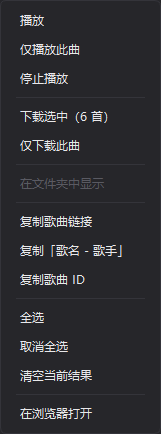
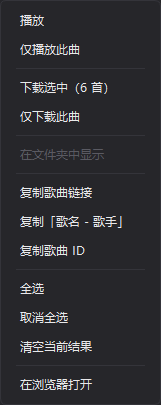
停止播放改为播放条按钮，移除两处右键菜单项
- 播放条新增实心方块停止按钮，未播放时置灰
- 结果表与标题栏右键菜单移除「停止播放」：右键某一首时容易被理解成停这一首
- 新增 stop.svg，方块占满 viewBox，避免渲染成 16px 时偏小
- 启动时按当前音源渲染一次，修掉客户端视图仍显示音质列的问题
- 版本 1.2.1

Changed region(s): [[0.1242, 0.0296, 0.7764, 0.8889], [0.1242, 0.9185, 0.5901, 0.9778]]

diff --git a/gui/player.py b/gui/player.py
@@ -392,7 +392,11 @@ class TopBar(QWidget):
         self.btn_play.setFocusPolicy(Qt.NoFocus)
         self.btn_play.clicked.connect(self.play_pause.emit)
         self.btn_next = self._icon_button("skip-forward", "下一首", self.next.emit, 22)
-        for w in (self.btn_prev, self.btn_play, self.btn_next):
+        # 停止单独给个按钮：以前只在右键菜单里，右键某一首看到「停止播放」
+        # 很容易被理解成停这一首
+        self.btn_stop = self._icon_button("stop", "停止播放", self.stop_requested.emit, 22)
+        self.btn_stop.setEnabled(False)
+        for w in (self.btn_prev, self.btn_play, self.btn_next, self.btn_stop):
             row.addWidget(w)
 
         row.addSpacing(6)
@@ -495,6 +499,7 @@ class TopBar(QWidget):
     def set_state(self, state: str) -> None:
         self._state = state
         self._sync_play_icon()
+        self.btn_stop.setEnabled(state != STOPPED)
         self.text.set_scrolling_allowed(state == PLAYING)
 
     def set_position(self, pos: int, duration: int) -> None:
@@ -647,15 +652,11 @@ class TopBar(QWidget):
     def contextMenuEvent(self, event) -> None:
         menu = QMenu(self)
         act_mini = menu.addAction("还原窗口" if self._compact else "紧凑模式")
-        act_stop = menu.addAction("停止播放")
-        act_stop.setEnabled(self._song is not None)
         menu.addSeparator()
         act_close = menu.addAction("关闭")
         chosen = menu.exec_(event.globalPos())
         if chosen is act_mini:
             self.toggle_mini.emit()
-        elif chosen is act_stop:
-            self.stop_requested.emit()
         elif chosen is act_close:
             self._win.close()
 

diff --git a/gui/main.py b/gui/main.py
@@ -780,6 +780,8 @@ class MainWindow(QMainWindow):
         # 鼠标掠过时就不会产生 MouseMove，边缘带等于失效
         for child in self.findChildren(QWidget):
             child.setMouseTracking(True)
+        # 建完界面先按当前音源渲染一次：否则「音质」列会一直显到第一次搜索为止
+        self._apply_view()
 
     def _init_tray(self) -> None:
         """托盘 + 媒体键。放最后初始化：winId 这时候才是有效的 HWND。"""
@@ -2382,9 +2384,8 @@ class MainWindow(QMainWindow):
             action.setData(key)
             action.setEnabled(enabled)
 
-        if self._playing_id is not None:
-            menu.addAction("停止播放").setData("stop")
-
+        # 「停止播放」不放这儿：右键某一首时它看起来像是「停这一首」，
+        # 实际停的是全局播放。播放条上已经有独立的停止按钮了。
         menu.addSeparator()
         for text, key, enabled in (
             (f"下载选中（{picked} 首）", "download", picked > 0 and idle),
@@ -2434,8 +2435,6 @@ class MainWindow(QMainWindow):
             self._play_from_list(self.songs, row)
         elif key == "play_one":
             self._play_from_list([song], 0)
-        elif key == "stop":
-            self._stop_playback()
         elif key == "download":
             self.on_download()
         elif key == "one":

diff --git a/ncm/__init__.py b/ncm/__init__.py
@@ -1,7 +1,7 @@
 """网易云音乐下载工具核心包。"""
 from __future__ import annotations
 
-__version__ = "1.2.0"
+__version__ = "1.2.1"
 
 from .backend import Backend, BackendError, LocalBackend
 from .models import AudioSource, Playlist, Song

diff --git a/docs/MAINTENANCE.md b/docs/MAINTENANCE.md
@@ -257,12 +257,13 @@ git tag v1.0.0
 
 按性价比排序，供后续取舍：
 
-1. **下载完成系统通知** — 现在只闪任务栏；要气泡通知需引 `QSystemTrayIcon` 常驻托盘
-2. **Cookie 加密存储** — 现在是 `config.json` 明文 + `0o600`（Windows 上无效），可上 DPAPI
-3. **歌词 / 封面开关** — 目前默认开启写入，没有界面开关
-4. **按音质筛选搜索结果** — 需要额外请求每首的可用档位，代价较大
+1. **Cookie 加密存储** — 现在是 `config.json` 明文 + `0o600`（Windows 上无效），可上 DPAPI
+2. **歌词 / 封面开关** — 目前默认开启写入，没有界面开关
+3. **按音质筛选搜索结果** — 需要额外请求每首的可用档位，代价较大
+4. **队列优先级** — 并发派发后再排序没有意义，要做就得改 Downloader 的调度
 5. **强代码保护** — 见打包踩坑，需先解决编译器问题
-6. **多选批量停止播放** — 目前只能停当前一首
+
+已完成（v1.2.0）：下载完成托盘通知、托盘常驻、媒体键、整批暂停/继续、失败原因分类。
 
 ## 六、风险提示
 

diff --git a/CHANGELOG.md b/CHANGELOG.md
@@ -1,5 +1,14 @@
 # 版本记录
 
+## v1.2.1 — 2026-11-05
+
+### 优化
+
+- **停止播放改成播放条上的按钮**（实心方块，未播放时置灰）。原来只在右键菜单里，
+  在某一首歌上右键看到「停止播放」，很容易理解成「停这一首」，实际停的是全局播放。
+  结果表和标题栏的右键菜单都已移除该项。
+- 启动时按当前音源渲染一次列表，避免「音质」列在客户端视图下一直显示到第一次搜索为止。
+
 ## v1.2.0 — 2026-11-05
 
 ### 修复与稳定性
